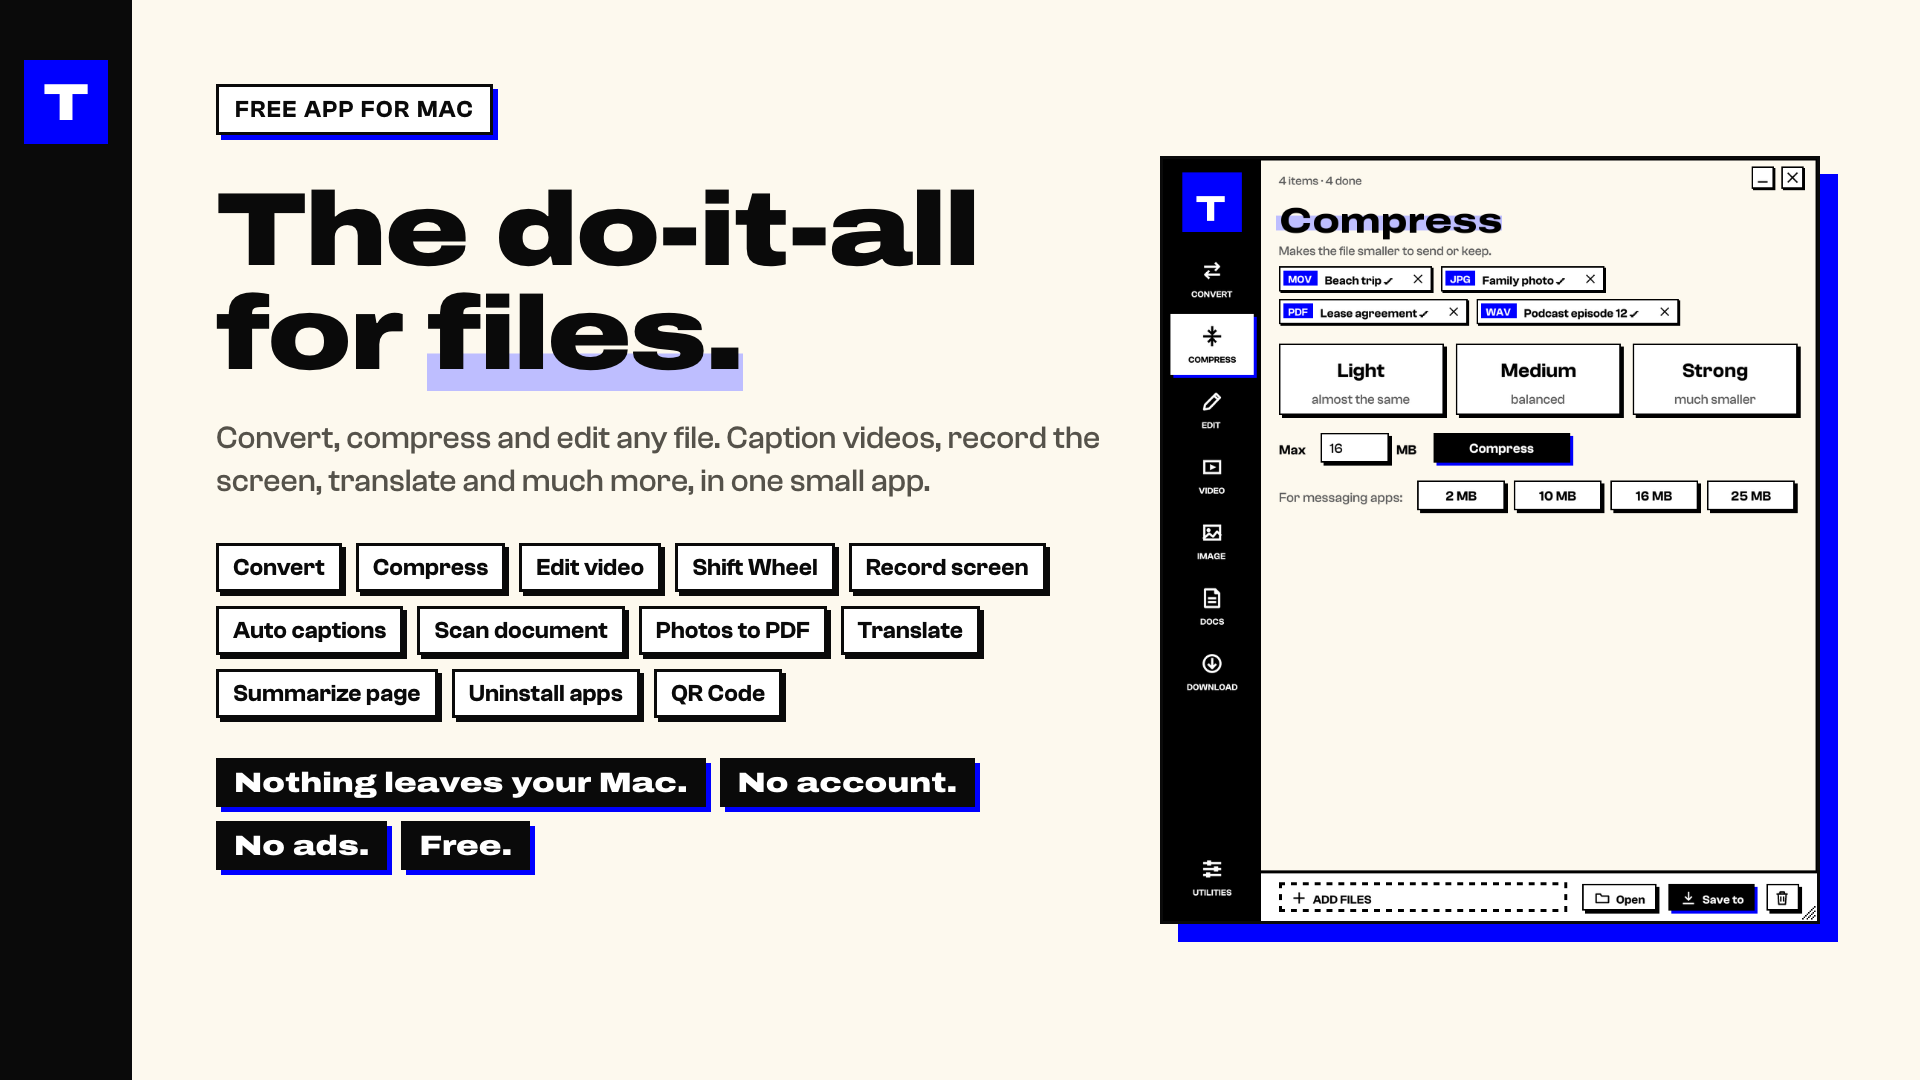
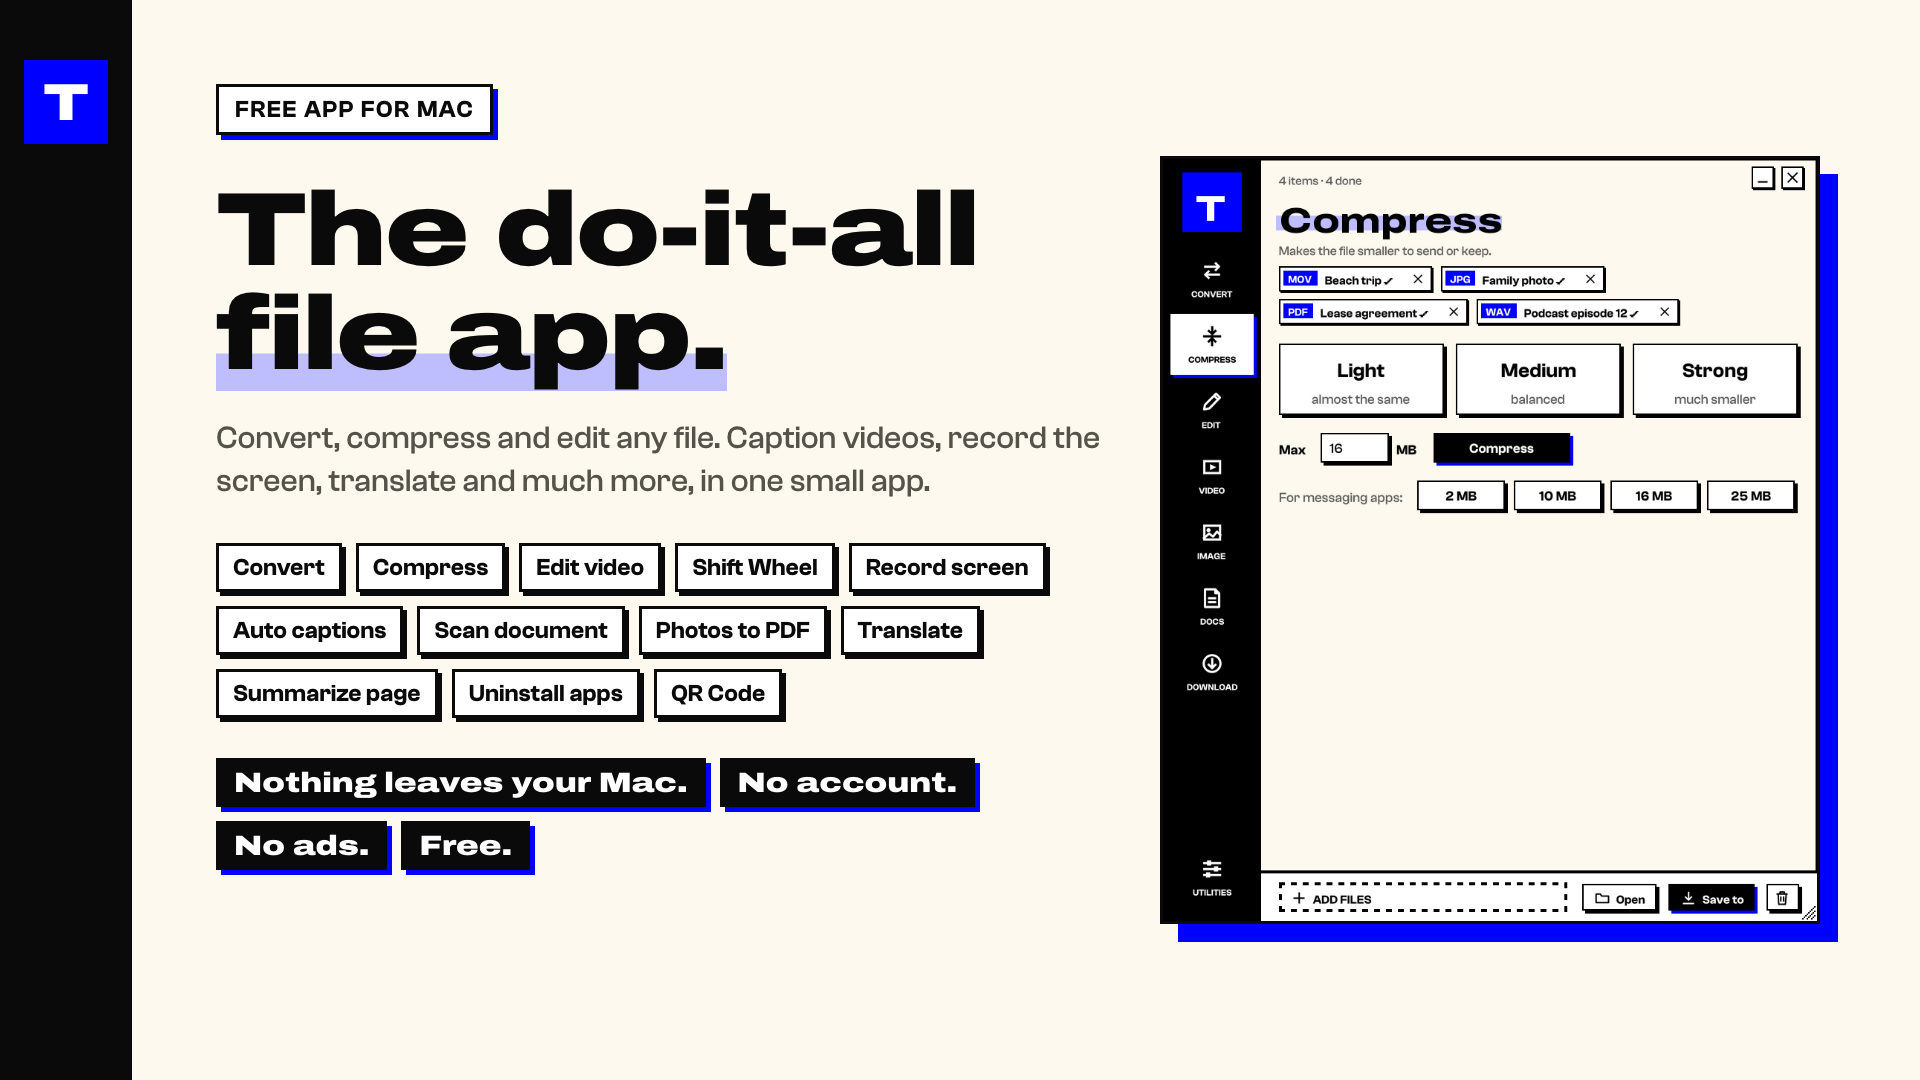
Treco 1.2.1: Disquetinho na barra de cima e slogan novo em inglês

Changed region(s): [[0.0938, 0.275, 0.4062, 0.3667]]

diff --git a/docs/en/index.html b/docs/en/index.html
@@ -3,11 +3,11 @@
 <head>
 <meta charset="utf-8">
 <meta name="viewport" content="width=device-width, initial-scale=1">
-<title>Treco: the file do-it-all for Mac</title>
+<title>Treco: the do-it-all file app for Mac</title>
 <meta name="description" content="Free Mac app: convert, compress and edit files, caption videos, record your screen and much more. No account, no ads, nothing leaves your computer.">
 <link rel="alternate" hreflang="pt-BR" href="https://movemontes.github.io/treco/">
 <link rel="alternate" hreflang="en" href="https://movemontes.github.io/treco/en/">
-<meta property="og:title" content="Treco: the file do-it-all for Mac">
+<meta property="og:title" content="Treco: the do-it-all file app for Mac">
 <meta property="og:description" content="Free, no account, no ads. Nothing leaves your computer.">
 <meta property="og:image" content="https://movemontes.github.io/treco/capa-en.png">
 <meta property="og:url" content="https://movemontes.github.io/treco/en/">
@@ -38,7 +38,7 @@
 <main>
   <div class="hero wrap">
     <span class="tag">FREE APP FOR MAC</span>
-    <h1>The file <em>do-it-all.</em></h1>
+    <h1>The do-it-all <em class="nw">file app.</em></h1>
     <p class="lead">Convert, compress and edit any file. Caption videos, record your screen, translate and much more, in one small app. No sketchy websites, and your files never leave your Mac.</p>
     <div class="cta">
       <a class="btn" href="https://github.com/movemontes/treco/releases/latest/download/Treco-mac.dmg">⬇ Download for Mac</a>

diff --git a/docs/site.css b/docs/site.css
@@ -99,6 +99,7 @@ h1, h2, .wide { font-family: var(--wide); font-stretch: 125%; font-weight: 900; 
   margin: 22px 0 18px;
 }
 .hero h1 em { font-style: normal; box-shadow: inset 0 -.36em 0 var(--sky); padding: 0 .04em; }
+.hero h1 em.nw { white-space: nowrap; }
 .hero p.lead { font-size: clamp(19px, 2.2vw, 23px); color: var(--gray); max-width: 760px; margin: 0 0 30px; }
 .cta { display: flex; flex-wrap: wrap; align-items: center; gap: 18px 24px; }
 .cta .meta { font-size: 15px; color: var(--gray); }

diff --git a/treco_app/ui/icons.py b/treco_app/ui/icons.py
@@ -635,19 +635,25 @@ def app_icon(size=1024):
 
 
 def menubar_icon(points=18, scale=2):
-    """Ícone da barra de cima: quadrado cheio com o T vazado. É uma "template image",
-    então o macOS pinta de preto ou branco conforme o tema."""
-    size = points * scale * 4
-    box = int(size * .86)
-    mask = _rounded_mask(box, .24).resize((box, box))
-    letter = Image.new("L", (box, box), 0)
-    draw = ImageDraw.Draw(letter)
-    font = _letter_font(int(box * .78))
-    left, top, right, bottom = draw.textbbox((0, 0), "T", font=font)
-    draw.text(((box - (right - left)) // 2 - left, (box - (bottom - top)) // 2 - top), "T", font=font, fill=255)
-    from PIL import ImageChops
-    alpha = Image.new("L", (size, size), 0)
-    alpha.paste(ImageChops.subtract(mask, letter), ((size - box) // 2, (size - box) // 2))
-    img = Image.new("RGBA", (size, size), (0, 0, 0, 0))
+    """Ícone da barra de cima: o Disquetinho só com a janelinha e os olhos, vazados.
+    É uma "template image", então o macOS pinta de preto ou branco conforme o tema."""
+    n, m, cut = 512, 24, 120
+    alpha = Image.new("L", (n, n), 0)
+    d = ImageDraw.Draw(alpha)
+    d.rounded_rectangle((m, m, n - m, n - m), 60, fill=255)
+    # canto de cima à direita cortado, como num disquete
+    d.polygon([(n - m - cut, m - 40), (n + 40, m - 40), (n + 40, m + cut + 40),
+               (n - m + 2, m + cut + 2), (n - m - cut, m - 2)], fill=0)
+    d.rounded_rectangle((150, 66, 340, 146), 14, fill=0)   # janelinha
+    d.rectangle((280, 80, 314, 132), fill=255)             # trava
+    for cx in (180, 332):                                  # olhos com pupila
+        d.ellipse((cx - 72, 210, cx + 72, 400), fill=0)
+        d.ellipse((cx - 30, 262, cx + 30, 362), fill=255)
+    img = Image.new("RGBA", (n, n), (0, 0, 0, 0))
     img.putalpha(alpha)
-    return img.resize((points * scale, points * scale), Image.LANCZOS)
+    size = points * scale
+    pad = int(size * .07)
+    small = img.resize((size - 2 * pad, size - 2 * pad), Image.LANCZOS)
+    out = Image.new("RGBA", (size, size), (0, 0, 0, 0))
+    out.paste(small, (pad, pad), small)
+    return out

diff --git a/treco_app/version.py b/treco_app/version.py
@@ -1,5 +1,5 @@
 """Versão do Treco e onde procurar versões novas."""
-VERSION = "1.2"
+VERSION = "1.2.1"
 
 # Repositório no GitHub, no formato "usuario/repositorio". Enquanto for o exemplo, o Treco não procura atualização.
 GITHUB_REPO = "movemontes/treco"

diff --git a/README.en.md b/README.en.md
@@ -1,5 +1,5 @@
 <p align="center">
-  <img src="docs/capa-en.png" alt="Treco: the file do-it-all" width="100%">
+  <img src="docs/capa-en.png" alt="Treco: the do-it-all file app" width="100%">
 </p>
 
 <p align="center">
